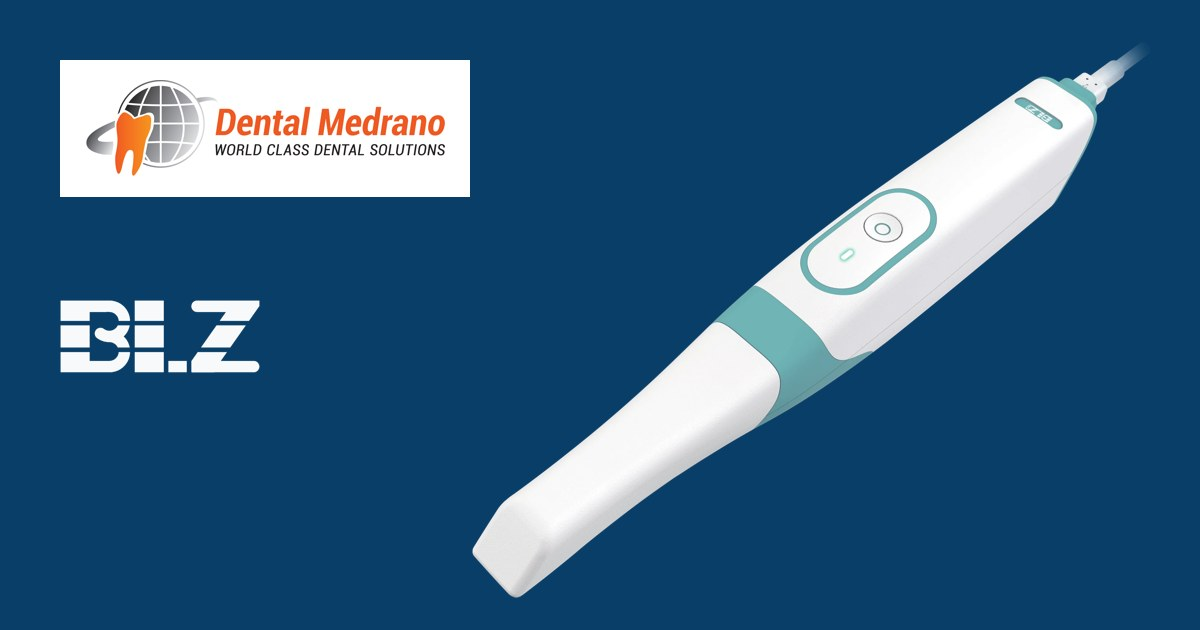
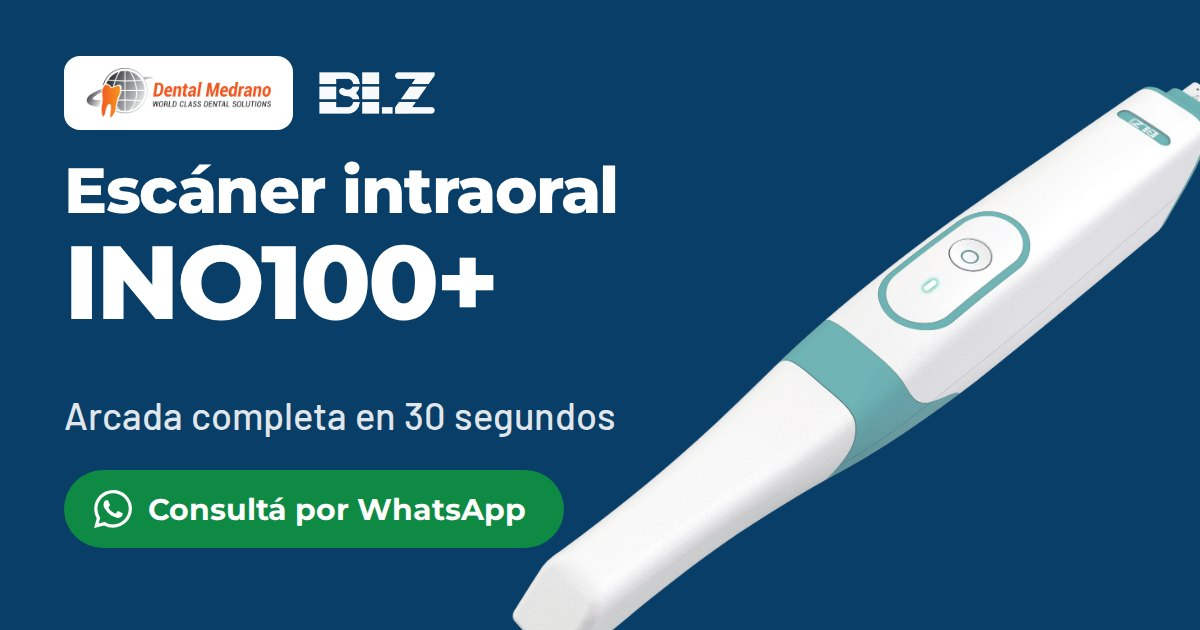
vista previa del link

diff --git a/src/app/layout.tsx b/src/app/layout.tsx
@@ -18,9 +18,15 @@ export async function generateMetadata(): Promise<Metadata> {
     openGraph: {
       title: c.site.seoTitle,
       description: c.site.seoDescription,
-      images: c.site.ogImage ? [c.site.ogImage] : undefined,
+      images: c.site.ogImage ? [{ url: c.site.ogImage, width: 1200, height: 630, alt: "Escáner intraoral INO100+ | Dental Medrano" }] : undefined,
       type: "website",
       locale: "es_AR",
+    },
+    twitter: {
+      card: "summary_large_image",
+      title: c.site.seoTitle,
+      description: c.site.seoDescription,
+      images: c.site.ogImage ? [c.site.ogImage] : undefined,
     },
   };
 }

diff --git a/src/lib/content.ts b/src/lib/content.ts
@@ -119,7 +119,7 @@ export const defaultContent: Content = {
     retailUrl: "https://dentalmedrano.com",
     seoTitle: "Escáner intraoral INO100+ | Dental Medrano",
     seoDescription:
-      "Escáner intraoral INO100+ de BLZ Dental: arcada completa en 30 segundos, precisión menor a 20 µm, color real, tres puntas e inteligencia artificial. Consultá en Dental Medrano.",
+      "Arcada completa en 30 segundos, color real e IA. Conocé el INO100+ y consultá por WhatsApp.",
     ogImage: "/img/og.jpg",
   },
   hero: {
